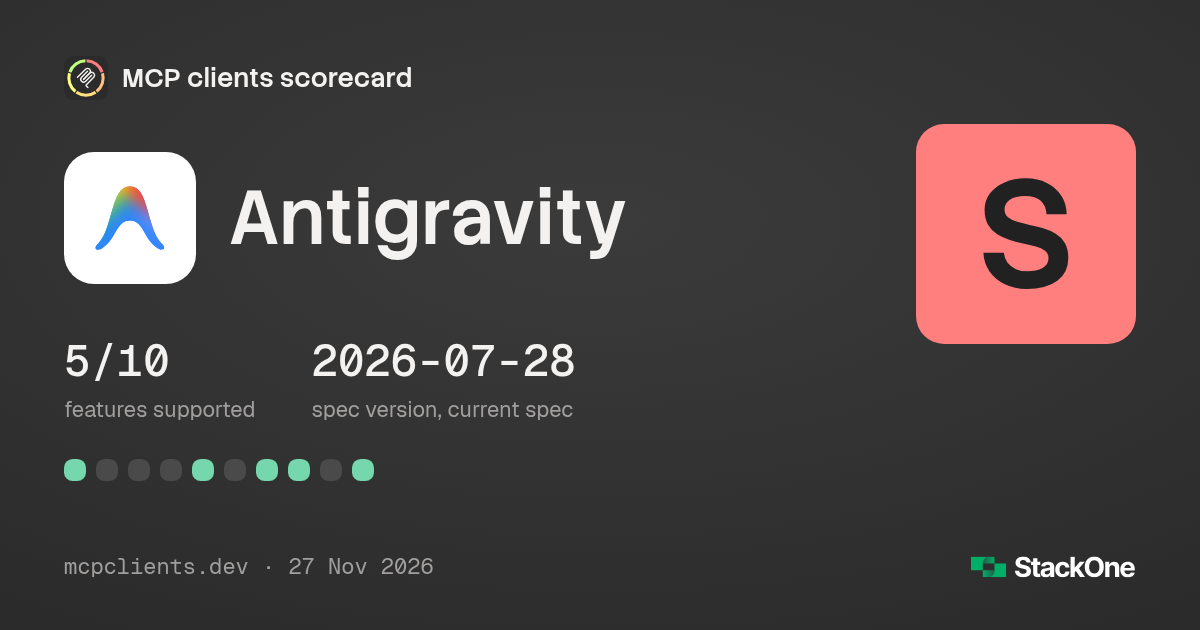
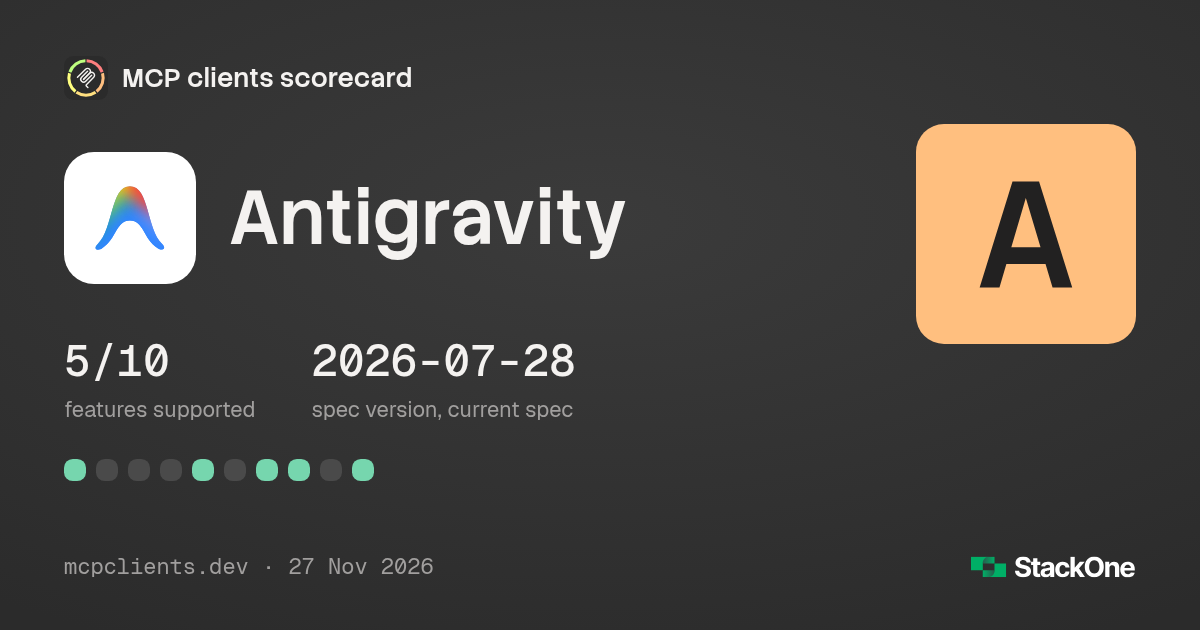
fix(rubric): S tier needs 60% of the feature columns
The S bar was a fixed 5 from when the board had fewer columns. It is now
0.6 of the feature columns (6 of 10), still on the current spec or one
behind. goose, Antigravity and OpenClaw move to A. VS Code's protocol
cell is rechecked at 1.148.0 (still 2025-11-25).

Changed region(s): [[0.74, 0.181, 0.9558, 0.573]]

diff --git a/README.md b/README.md
@@ -13,11 +13,13 @@ Which MCP clients support which parts of the [Model Context Protocol](https://mo
 <!-- changes:start -->
 <!-- Generated by `npm run build` from data/. Do not edit between the markers. -->
 
-The last 30 days to 27 Nov 2026. Clients: 15 · Feature support: 26 · Tier moves: 6 · Spec: 1. Board changes carry the date of the weekly check, shipped features the date of their release note. Feeds: [Atom](https://mcpclients.dev/changelog.xml) · [JSON](https://mcpclients.dev/changelog.json)
+The last 30 days to 27 Nov 2026. Clients: 15 · Feature support: 26 · Tier moves: 8 · Spec: 1. Board changes carry the date of the weekly check, shipped features the date of their release note. Feeds: [Atom](https://mcpclients.dev/changelog.xml) · [JSON](https://mcpclients.dev/changelog.json)
 
 | Date | Kind | Change |
 | --- | --- | --- |
-| 2026-11-27 | Client | [Antigravity](EVIDENCE.md#antigravity) joins the board in S tier |
+| 2026-11-27 | Client | [Antigravity](EVIDENCE.md#antigravity) joins the board in A tier |
+| 2026-11-27 | Tier | [goose](EVIDENCE.md#goose) moves down from S to A tier |
+| 2026-11-27 | Tier | [OpenClaw](EVIDENCE.md#openclaw) moves down from S to A tier |
 | 2026-11-24 | Feature | [Claude app](EVIDENCE.md#claude-app) ships Skills ([source](https://claude.com/resources/articles/skills-over-mcp-tasks-and-more)) |
 | 2026-11-24 | Feature | [Claude app](EVIDENCE.md#claude-app) ships Tasks ([source](https://claude.com/resources/articles/skills-over-mcp-tasks-and-more)) |
 | 2026-11-24 | Feature | [Claude Code](EVIDENCE.md#claude-code) ships Skills in 2.1.332 ([source](https://www.npmjs.com/package/@anthropic-ai/claude-code/v/2.1.332)) |
@@ -25,13 +27,13 @@ The last 30 days to 27 Nov 2026. Clients: 15 · Feature support: 26 · Tier move
 | 2026-11-23 | Client | [Open WebUI](EVIDENCE.md#open-webui) joins the board in B tier |
 | 2026-11-23 | Client | [OpenClaw](EVIDENCE.md#openclaw) joins the board in S tier |
 | 2026-11-23 | Feature | [Gemini CLI](EVIDENCE.md#gemini-cli) rechecked: spec version 2025-06-18 → 2025-11-25 |
-| 2026-11-23 | Feature | [goose](EVIDENCE.md#goose) rechecked: Tool search partly → yes |
-| 2026-11-23 | Tier | [Gemini CLI](EVIDENCE.md#gemini-cli) moves up from D to C tier |
 
-<details><summary>38 more from the last 30 days</summary>
+<details><summary>40 more from the last 30 days</summary>
 
 | Date | Kind | Change |
 | --- | --- | --- |
+| 2026-11-23 | Feature | [goose](EVIDENCE.md#goose) rechecked: Tool search partly → yes |
+| 2026-11-23 | Tier | [Gemini CLI](EVIDENCE.md#gemini-cli) moves up from D to C tier |
 | 2026-11-22 | Client | [Amp](EVIDENCE.md#amp) joins the board in A tier |
 | 2026-11-22 | Client | [Auggie](EVIDENCE.md#auggie) joins the board in C tier |
 | 2026-11-22 | Client | [JetBrains AI Assistant](EVIDENCE.md#jetbrains-ai-assistant) joins the board in C tier |
@@ -168,7 +170,7 @@ As of 27 Nov 2026. Click any cell for its source, or a client name for the full 
 | Tier | Client | Version checked | MCP bugs fixed | Spec version | MCP Apps | Tasks | Events | Skills | CIMD | ID-JAG | Elicitation | Live tool lists | Code mode <sub>harness</sub> | Tool search <sub>harness</sub> |
 | --- | --- | --- | --- | --- | --- | --- | --- | --- | --- | --- | --- | --- | --- | --- |
 | **S** | [Claude Code](EVIDENCE.md#claude-code) [↗](https://claude.com/product/claude-code) | `2.1.332` | [9% of 910](https://github.com/anthropics/claude-code/issues) | [![current spec](assets/icons/spec-current.svg) 2026-07-28](https://code.claude.com/docs/en/changelog) | [![not applicable](assets/icons/na.svg)](https://github.com/anthropics/claude-code/issues/95149) | [![yes](assets/icons/y.svg)](https://code.claude.com/docs/en/mcp) | [![no](assets/icons/n.svg)](https://github.com/anthropics/claude-code/issues/101434) | [![yes](assets/icons/y.svg)](https://github.com/anthropics/claude-code/blob/eb8e6d253d0dbee6e52fb0d5fdcb72c9396fe3e8/CHANGELOG.md#L5) | [![yes](assets/icons/y.svg)](https://code.claude.com/docs/en/mcp) | [![yes](assets/icons/y.svg)](https://blog.modelcontextprotocol.io/posts/enterprise-managed-auth) | [![yes](assets/icons/y.svg)](https://code.claude.com/docs/en/mcp) | [![yes](assets/icons/y.svg)](https://github.com/anthropics/claude-code/blob/80c6959d28c4c30ecd14fc1cdf172f19d9adad81/CHANGELOG.md#L8529) | [![partial](assets/icons/p.svg)](https://code.claude.com/docs/en/code-mode) | [![yes](assets/icons/y.svg) Keyword](https://registry.npmjs.org/@anthropic-ai/claude-code-linux-x64/2.1.325) |
-| **S** | [OpenClaw](EVIDENCE.md#openclaw) [↗](https://openclaw.ai) | `2026.11.7` | [42% of 345](https://github.com/openclaw/openclaw/issues) | [![one version behind](assets/icons/spec-behind.svg) 2025-11-25](https://github.com/openclaw/openclaw/blob/e31bbf056de321127988ec5c1a36ff1b59297de0/src/agents/agent-bundle-mcp-runtime.ts#L357) | [![yes](assets/icons/y.svg)](https://docs.openclaw.ai/cli/mcp/apps) | [![no](assets/icons/n.svg)](https://github.com/openclaw/openclaw/tree/e31bbf056de321127988ec5c1a36ff1b59297de0/src/agents) | [![partial](assets/icons/p.svg)](https://docs.openclaw.ai/automation/mcp-events) | [![no](assets/icons/n.svg)](https://docs.openclaw.ai/cli/mcp) | [![partial](assets/icons/p.svg)](https://github.com/openclaw/openclaw/blob/e31bbf056de321127988ec5c1a36ff1b59297de0/src/agents/mcp-oauth-provider.ts#L167) | [![no](assets/icons/n.svg)](https://github.com/openclaw/openclaw/tree/e31bbf056de321127988ec5c1a36ff1b59297de0/src/agents) | [![partial](assets/icons/p.svg)](https://github.com/openclaw/openclaw/blob/e31bbf056de321127988ec5c1a36ff1b59297de0/src/agents/mcp-metadata.ts#L12) | [![yes](assets/icons/y.svg)](https://github.com/openclaw/openclaw/blob/e31bbf056de321127988ec5c1a36ff1b59297de0/src/agents/agent-bundle-mcp-runtime.ts#L363) | [![partial](assets/icons/p.svg)](https://docs.openclaw.ai/tools/code-mode) | [![yes](assets/icons/y.svg) BM25](https://github.com/openclaw/openclaw/blob/e31bbf056de321127988ec5c1a36ff1b59297de0/src/agents/tool-search-ranking.ts#L371) |
+| **A** | [OpenClaw](EVIDENCE.md#openclaw) [↗](https://openclaw.ai) | `2026.11.7` | [42% of 345](https://github.com/openclaw/openclaw/issues) | [![one version behind](assets/icons/spec-behind.svg) 2025-11-25](https://github.com/openclaw/openclaw/blob/e31bbf056de321127988ec5c1a36ff1b59297de0/src/agents/agent-bundle-mcp-runtime.ts#L357) | [![yes](assets/icons/y.svg)](https://docs.openclaw.ai/cli/mcp/apps) | [![no](assets/icons/n.svg)](https://github.com/openclaw/openclaw/tree/e31bbf056de321127988ec5c1a36ff1b59297de0/src/agents) | [![partial](assets/icons/p.svg)](https://docs.openclaw.ai/automation/mcp-events) | [![no](assets/icons/n.svg)](https://docs.openclaw.ai/cli/mcp) | [![partial](assets/icons/p.svg)](https://github.com/openclaw/openclaw/blob/e31bbf056de321127988ec5c1a36ff1b59297de0/src/agents/mcp-oauth-provider.ts#L167) | [![no](assets/icons/n.svg)](https://github.com/openclaw/openclaw/tree/e31bbf056de321127988ec5c1a36ff1b59297de0/src/agents) | [![partial](assets/icons/p.svg)](https://github.com/openclaw/openclaw/blob/e31bbf056de321127988ec5c1a36ff1b59297de0/src/agents/mcp-metadata.ts#L12) | [![yes](assets/icons/y.svg)](https://github.com/openclaw/openclaw/blob/e31bbf056de321127988ec5c1a36ff1b59297de0/src/agents/agent-bundle-mcp-runtime.ts#L363) | [![partial](assets/icons/p.svg)](https://docs.openclaw.ai/tools/code-mode) | [![yes](assets/icons/y.svg) BM25](https://github.com/openclaw/openclaw/blob/e31bbf056de321127988ec5c1a36ff1b59297de0/src/agents/tool-search-ranking.ts#L371) |
 | **A** | [Copilot CLI](EVIDENCE.md#copilot-cli) [↗](https://github.com/features/copilot) | `1.0.117` | [43% of 157](https://github.com/github/copilot-cli/issues) | [![current spec](assets/icons/spec-current.svg) 2026-07-28](https://github.com/github/copilot-cli/blob/main/changelog.md) | [![not applicable](assets/icons/na.svg)](https://github.com/github/copilot-cli/blob/main/changelog.md) | [![partial](assets/icons/p.svg)](https://github.com/github/copilot-cli/blob/main/changelog.md) | [![no](assets/icons/n.svg)](https://registry.npmjs.org/@github/copilot-linux-x64/1.0.112) | [![no](assets/icons/n.svg)](https://github.com/github/copilot-cli/blob/main/changelog.md) | [![yes](assets/icons/y.svg)](https://github.com/github/copilot-cli/blob/main/changelog.md) | [![no](assets/icons/n.svg)](https://registry.npmjs.org/@github/copilot-linux-x64/1.0.112) | [![yes](assets/icons/y.svg)](https://github.com/github/copilot-cli/blob/main/changelog.md) | [![yes](assets/icons/y.svg)](https://github.com/github/copilot-cli/blob/84ee80ea6490ce02d6000439356a609fcefbb9ae/changelog.md#L454) | [![no](assets/icons/n.svg)](https://github.com/github/copilot-cli/blob/main/changelog.md) | [![yes](assets/icons/y.svg) Hosted](https://registry.npmjs.org/@github/copilot-linux-x64/1.0.112) |
 | **A** | [Amp](EVIDENCE.md#amp) [↗](https://ampcode.com) | `0.0.1795334436-g660843` | no public tracker | [![current spec](assets/icons/spec-current.svg) 2026-07-28 (falls back to 2025-11-25)](https://ampcode.com/docs/customize/mcp) | [![yes](assets/icons/y.svg)](https://ampcode.com/docs/customize/mcp) | [![no](assets/icons/n.svg)](https://ampcode.com/docs/customize/mcp) | [![no](assets/icons/n.svg)](https://ampcode.com/docs/customize/mcp) | [![no](assets/icons/n.svg)](https://ampcode.com/manual) | [![yes](assets/icons/y.svg)](https://ampcode.com/docs/customize/mcp) | [![no](assets/icons/n.svg)](https://ampcode.com/docs/customize/mcp) | [![yes](assets/icons/y.svg)](https://ampcode.com/docs/customize/mcp) | [![no](assets/icons/n.svg)](https://ampcode.com/docs/customize/mcp) | [![partial](assets/icons/p.svg)](https://ampcode.com/docs/customize/mcp) | [![partial](assets/icons/p.svg)](https://ampcode.com/docs/customize/mcp) |
 | **A** | [Hermes Agent](EVIDENCE.md#hermes-agent) [↗](https://hermes-agent.nousresearch.com) | `0.23.3` | [29% of 661](https://github.com/NousResearch/hermes-agent/issues) | [![current spec](assets/icons/spec-current.svg) 2026-07-28 (falls back to 2025-11-25)](https://github.com/NousResearch/hermes-agent/blob/caafe5389ae585ef77387a962aee05b1bcf17029/tools/mcp_tool_transport.py#L229) | [![not applicable](assets/icons/na.svg)](https://github.com/NousResearch/hermes-agent/tree/caafe5389ae585ef77387a962aee05b1bcf17029/tools) | [![no](assets/icons/n.svg)](https://github.com/NousResearch/hermes-agent/tree/caafe5389ae585ef77387a962aee05b1bcf17029/tools) | [![partial](assets/icons/p.svg)](https://github.com/NousResearch/hermes-agent/blob/caafe5389ae585ef77387a962aee05b1bcf17029/website/docs/user-guide/features/mcp.md#L1038) | [![no](assets/icons/n.svg)](https://github.com/NousResearch/hermes-agent/pull/137746) | [![yes](assets/icons/y.svg)](https://github.com/NousResearch/hermes-agent/blob/caafe5389ae585ef77387a962aee05b1bcf17029/website/docs/user-guide/features/mcp.md#L354) | [![no](assets/icons/n.svg)](https://github.com/NousResearch/hermes-agent/tree/caafe5389ae585ef77387a962aee05b1bcf17029/tools) | [![partial](assets/icons/p.svg)](https://github.com/NousResearch/hermes-agent/blob/caafe5389ae585ef77387a962aee05b1bcf17029/website/docs/user-guide/features/mcp.md#L1023) | [![yes](assets/icons/y.svg)](https://github.com/NousResearch/hermes-agent/blob/caafe5389ae585ef77387a962aee05b1bcf17029/tools/mcp_tool_health.py#L109) | [![no](assets/icons/n.svg)](https://github.com/NousResearch/hermes-agent/blob/caafe5389ae585ef77387a962aee05b1bcf17029/website/docs/user-guide/features/code-execution.md#L153) | [![yes](assets/icons/y.svg) BM25 search](https://github.com/NousResearch/hermes-agent/blob/caafe5389ae585ef77387a962aee05b1bcf17029/website/docs/user-guide/features/tool-search.md#L133) |
@@ -187,10 +189,10 @@ As of 27 Nov 2026. Click any cell for its source, or a client name for the full 
 
 | Tier | Client | Version checked | MCP bugs fixed | Spec version | MCP Apps | Tasks | Events | Skills | CIMD | ID-JAG | Elicitation | Live tool lists | Code mode <sub>harness</sub> | Tool search <sub>harness</sub> |
 | --- | --- | --- | --- | --- | --- | --- | --- | --- | --- | --- | --- | --- | --- | --- |
-| **S** | [VS Code](EVIDENCE.md#vs-code) [↗](https://code.visualstudio.com) | `1.147.0` | [46% of 368](https://github.com/microsoft/vscode/issues) | [![one version behind](assets/icons/spec-behind.svg) 2025-11-25](https://github.com/microsoft/vscode/blob/2c33b50b16c472efe58357d1d2a8a5414bc23fbf/src/vs/workbench/contrib/mcp/common/mcpServerRequestHandler.ts#L116) | [![yes](assets/icons/y.svg)](https://github.com/microsoft/vscode/blob/2c33b50b16c472efe58357d1d2a8a5414bc23fbf/src/vs/workbench/contrib/mcp/common/mcpServerRequestHandler.ts#L130) | [![yes](assets/icons/y.svg)](https://github.com/microsoft/vscode/blob/2c33b50b16c472efe58357d1d2a8a5414bc23fbf/src/vs/workbench/contrib/mcp/common/mcpServer.ts#L1404) | [![no](assets/icons/n.svg)](https://github.com/microsoft/vscode/tree/2c33b50b16c472efe58357d1d2a8a5414bc23fbf/src/vs/workbench/contrib/mcp) | [![yes](assets/icons/y.svg)](https://github.com/microsoft/vscode-docs/blob/main/release-notes/v1_147.md) | [![yes](assets/icons/y.svg)](https://github.com/microsoft/vscode/blob/2c33b50b16c472efe58357d1d2a8a5414bc23fbf/src/vs/workbench/api/browser/mainThreadAuthentication.ts#L193) | [![yes](assets/icons/y.svg)](https://github.com/microsoft/vscode/blob/2c33b50b16c472efe58357d1d2a8a5414bc23fbf/src/vs/base/common/oauth.ts#L35) | [![yes](assets/icons/y.svg)](https://github.com/microsoft/vscode/blob/2c33b50b16c472efe58357d1d2a8a5414bc23fbf/src/vs/workbench/contrib/mcp/common/mcpServerRequestHandler.ts#L120) | [![yes](assets/icons/y.svg)](https://github.com/microsoft/vscode/blob/1.144.0/src/vs/workbench/contrib/mcp/common/mcpServer.ts#L1238-L1241) | [![no](assets/icons/n.svg)](https://github.com/microsoft/vscode/tree/2c33b50b16c472efe58357d1d2a8a5414bc23fbf/src/vs/workbench/contrib/mcp) | [![yes](assets/icons/y.svg) Embeddings](https://github.com/microsoft/vscode/blob/2c33b50b16c472efe58357d1d2a8a5414bc23fbf/extensions/copilot/src/extension/tools/node/toolSearchTool.ts) |
-| **S** | [goose](EVIDENCE.md#goose) [↗](https://goose-docs.ai) | `1.60.2` | [54% of 83](https://github.com/aaif-goose/goose/issues) | [![current spec](assets/icons/spec-current.svg) 2026-07-28 (falls back to 2025-11-25)](https://github.com/aaif-goose/goose/blob/30bba95105e59bc3e7df624cf6b4d433690cfe12/crates/goose/src/agents/mcp_client.rs#L549) | [![yes](assets/icons/y.svg)](https://github.com/aaif-goose/goose/blob/30bba95105e59bc3e7df624cf6b4d433690cfe12/crates/goose/src/agents/mcp_client.rs#L47) | [![no](assets/icons/n.svg)](https://github.com/aaif-goose/goose/blob/30bba95105e59bc3e7df624cf6b4d433690cfe12/crates/goose/src/agents/mcp_client.rs#L443) | [![no](assets/icons/n.svg)](https://github.com/aaif-goose/goose/tree/30bba95105e59bc3e7df624cf6b4d433690cfe12/crates) | [![no](assets/icons/n.svg)](https://github.com/aaif-goose/goose/issues/12068) | [![yes](assets/icons/y.svg)](https://github.com/aaif-goose/goose/blob/30bba95105e59bc3e7df624cf6b4d433690cfe12/crates/goose/src/oauth/mod.rs#L25) | [![no](assets/icons/n.svg)](https://github.com/aaif-goose/goose/tree/30bba95105e59bc3e7df624cf6b4d433690cfe12/crates/goose/src/oauth) | [![partial](assets/icons/p.svg)](https://github.com/aaif-goose/goose/blob/30bba95105e59bc3e7df624cf6b4d433690cfe12/documentation/docs/guides/mcp-elicitation.md#L16) | [![yes](assets/icons/y.svg)](https://github.com/aaif-goose/goose/blob/v1.57.0/crates/goose/src/agents/mcp_client.rs#L358) | [![yes](assets/icons/y.svg)](https://github.com/aaif-goose/goose/blob/30bba95105e59bc3e7df624cf6b4d433690cfe12/documentation/docs/guides/managing-tools/code-mode.md#L25) | [![yes](assets/icons/y.svg) LLM picks](https://github.com/aaif-goose/goose/blob/fb55b5a6d7f5b5df96c8f817f1cde6a81880d9f1/documentation/docs/guides/config-files.md#L54) |
-| **S** | [Antigravity](EVIDENCE.md#antigravity) [↗](https://antigravity.google) | `2.35.2` | no public tracker | [![current spec](assets/icons/spec-current.svg) 2026-07-28 (falls back to 2025-11-25)](https://storage.googleapis.com/antigravity-public/antigravity-hub/2.35.2-4585983447007232/linux-x64/Antigravity.tar.gz) | [![yes](assets/icons/y.svg)](https://antigravity.google/docs/mcp-apps) | [![no](assets/icons/n.svg)](https://storage.googleapis.com/antigravity-public/antigravity-hub/2.35.2-4585983447007232/linux-x64/Antigravity.tar.gz) | [![no](assets/icons/n.svg)](https://storage.googleapis.com/antigravity-public/antigravity-hub/2.35.2-4585983447007232/linux-x64/Antigravity.tar.gz) | [![no](assets/icons/n.svg)](https://antigravity.google/docs/skills) | [![yes](assets/icons/y.svg)](https://antigravity.google/docs/mcp) | [![no](assets/icons/n.svg)](https://storage.googleapis.com/antigravity-public/antigravity-hub/2.35.2-4585983447007232/linux-x64/Antigravity.tar.gz) | [![yes](assets/icons/y.svg)](https://storage.googleapis.com/antigravity-public/antigravity-hub/2.35.2-4585983447007232/linux-x64/Antigravity.tar.gz) | [![yes](assets/icons/y.svg)](https://storage.googleapis.com/antigravity-public/antigravity-hub/2.35.2-4585983447007232/linux-x64/Antigravity.tar.gz) | [![no](assets/icons/n.svg)](https://antigravity.google/docs/dynamic-workflows) | [![yes](assets/icons/y.svg) Files](https://antigravity.google/docs/mcp) |
+| **S** | [VS Code](EVIDENCE.md#vs-code) [↗](https://code.visualstudio.com) | `1.147.0` | [46% of 368](https://github.com/microsoft/vscode/issues) | [![one version behind](assets/icons/spec-behind.svg) 2025-11-25](https://github.com/microsoft/vscode/blob/661626d0e72f97806550790a98fb87116c9db825/src/vs/workbench/contrib/mcp/common/mcpServerRequestHandler.ts#L116) | [![yes](assets/icons/y.svg)](https://github.com/microsoft/vscode/blob/2c33b50b16c472efe58357d1d2a8a5414bc23fbf/src/vs/workbench/contrib/mcp/common/mcpServerRequestHandler.ts#L130) | [![yes](assets/icons/y.svg)](https://github.com/microsoft/vscode/blob/2c33b50b16c472efe58357d1d2a8a5414bc23fbf/src/vs/workbench/contrib/mcp/common/mcpServer.ts#L1404) | [![no](assets/icons/n.svg)](https://github.com/microsoft/vscode/tree/2c33b50b16c472efe58357d1d2a8a5414bc23fbf/src/vs/workbench/contrib/mcp) | [![yes](assets/icons/y.svg)](https://github.com/microsoft/vscode-docs/blob/main/release-notes/v1_147.md) | [![yes](assets/icons/y.svg)](https://github.com/microsoft/vscode/blob/2c33b50b16c472efe58357d1d2a8a5414bc23fbf/src/vs/workbench/api/browser/mainThreadAuthentication.ts#L193) | [![yes](assets/icons/y.svg)](https://github.com/microsoft/vscode/blob/2c33b50b16c472efe58357d1d2a8a5414bc23fbf/src/vs/base/common/oauth.ts#L35) | [![yes](assets/icons/y.svg)](https://github.com/microsoft/vscode/blob/2c33b50b16c472efe58357d1d2a8a5414bc23fbf/src/vs/workbench/contrib/mcp/common/mcpServerRequestHandler.ts#L120) | [![yes](assets/icons/y.svg)](https://github.com/microsoft/vscode/blob/1.144.0/src/vs/workbench/contrib/mcp/common/mcpServer.ts#L1238-L1241) | [![no](assets/icons/n.svg)](https://github.com/microsoft/vscode/tree/2c33b50b16c472efe58357d1d2a8a5414bc23fbf/src/vs/workbench/contrib/mcp) | [![yes](assets/icons/y.svg) Embeddings](https://github.com/microsoft/vscode/blob/2c33b50b16c472efe58357d1d2a8a5414bc23fbf/extensions/copilot/src/extension/tools/node/toolSearchTool.ts) |
 | **A** | [Claude app](EVIDENCE.md#claude-app) [↗](https://claude.com/product/overview) | hosted | [13% of 596](https://github.com/anthropics/claude-ai-mcp/issues) | [![not published](assets/icons/spec-unknown.svg) not published](https://claude.com/docs/connectors/building) | [![yes](assets/icons/y.svg)](https://claude.com/docs/connectors/building/mcp-apps/getting-started) | [![yes](assets/icons/y.svg)](https://code.claude.com/docs/en/mcp) | [![no](assets/icons/n.svg)](https://claude.com/docs/connectors/building) | [![yes](assets/icons/y.svg)](https://claude.com/resources/articles/skills-over-mcp-tasks-and-more) | [![yes](assets/icons/y.svg)](https://claude.com/docs/connectors/building/authentication) | [![yes](assets/icons/y.svg)](https://claude.com/docs/connectors/building/enterprise-managed-auth) | [![no](assets/icons/n.svg)](https://github.com/anthropics/claude-ai-mcp/issues/1085) | [![no](assets/icons/n.svg)](https://github.com/anthropics/claude-ai-mcp/issues/45) | [![no](assets/icons/n.svg)](https://claude.com/docs/cowork/changelog) | [![yes](assets/icons/y.svg) Deferred](https://support.claude.com/en/articles/13730515-manage-claude-s-tool-access) |
+| **A** | [goose](EVIDENCE.md#goose) [↗](https://goose-docs.ai) | `1.60.2` | [54% of 83](https://github.com/aaif-goose/goose/issues) | [![current spec](assets/icons/spec-current.svg) 2026-07-28 (falls back to 2025-11-25)](https://github.com/aaif-goose/goose/blob/30bba95105e59bc3e7df624cf6b4d433690cfe12/crates/goose/src/agents/mcp_client.rs#L549) | [![yes](assets/icons/y.svg)](https://github.com/aaif-goose/goose/blob/30bba95105e59bc3e7df624cf6b4d433690cfe12/crates/goose/src/agents/mcp_client.rs#L47) | [![no](assets/icons/n.svg)](https://github.com/aaif-goose/goose/blob/30bba95105e59bc3e7df624cf6b4d433690cfe12/crates/goose/src/agents/mcp_client.rs#L443) | [![no](assets/icons/n.svg)](https://github.com/aaif-goose/goose/tree/30bba95105e59bc3e7df624cf6b4d433690cfe12/crates) | [![no](assets/icons/n.svg)](https://github.com/aaif-goose/goose/issues/12068) | [![yes](assets/icons/y.svg)](https://github.com/aaif-goose/goose/blob/30bba95105e59bc3e7df624cf6b4d433690cfe12/crates/goose/src/oauth/mod.rs#L25) | [![no](assets/icons/n.svg)](https://github.com/aaif-goose/goose/tree/30bba95105e59bc3e7df624cf6b4d433690cfe12/crates/goose/src/oauth) | [![partial](assets/icons/p.svg)](https://github.com/aaif-goose/goose/blob/30bba95105e59bc3e7df624cf6b4d433690cfe12/documentation/docs/guides/mcp-elicitation.md#L16) | [![yes](assets/icons/y.svg)](https://github.com/aaif-goose/goose/blob/v1.57.0/crates/goose/src/agents/mcp_client.rs#L358) | [![yes](assets/icons/y.svg)](https://github.com/aaif-goose/goose/blob/30bba95105e59bc3e7df624cf6b4d433690cfe12/documentation/docs/guides/managing-tools/code-mode.md#L25) | [![yes](assets/icons/y.svg) LLM picks](https://github.com/aaif-goose/goose/blob/fb55b5a6d7f5b5df96c8f817f1cde6a81880d9f1/documentation/docs/guides/config-files.md#L54) |
+| **A** | [Antigravity](EVIDENCE.md#antigravity) [↗](https://antigravity.google) | `2.35.2` | no public tracker | [![current spec](assets/icons/spec-current.svg) 2026-07-28 (falls back to 2025-11-25)](https://storage.googleapis.com/antigravity-public/antigravity-hub/2.35.2-4585983447007232/linux-x64/Antigravity.tar.gz) | [![yes](assets/icons/y.svg)](https://antigravity.google/docs/mcp-apps) | [![no](assets/icons/n.svg)](https://storage.googleapis.com/antigravity-public/antigravity-hub/2.35.2-4585983447007232/linux-x64/Antigravity.tar.gz) | [![no](assets/icons/n.svg)](https://storage.googleapis.com/antigravity-public/antigravity-hub/2.35.2-4585983447007232/linux-x64/Antigravity.tar.gz) | [![no](assets/icons/n.svg)](https://antigravity.google/docs/skills) | [![yes](assets/icons/y.svg)](https://antigravity.google/docs/mcp) | [![no](assets/icons/n.svg)](https://storage.googleapis.com/antigravity-public/antigravity-hub/2.35.2-4585983447007232/linux-x64/Antigravity.tar.gz) | [![yes](assets/icons/y.svg)](https://storage.googleapis.com/antigravity-public/antigravity-hub/2.35.2-4585983447007232/linux-x64/Antigravity.tar.gz) | [![yes](assets/icons/y.svg)](https://storage.googleapis.com/antigravity-public/antigravity-hub/2.35.2-4585983447007232/linux-x64/Antigravity.tar.gz) | [![no](assets/icons/n.svg)](https://antigravity.google/docs/dynamic-workflows) | [![yes](assets/icons/y.svg) Files](https://antigravity.google/docs/mcp) |
 | **A** | [Kiro](EVIDENCE.md#kiro) [↗](https://kiro.dev) | `3.5.0` | [30% of 108](https://github.com/kirodotdev/Kiro/issues) | [![current spec](assets/icons/spec-current.svg) 2026-07-28](https://desktop-release.q.us-east-1.amazonaws.com/3.5.0/kirocli-x86_64-linux.zip) | [![no](assets/icons/n.svg)](https://github.com/kirodotdev/Kiro/issues/11048) | [![no](assets/icons/n.svg)](https://kiro.dev/docs/mcp/) | [![no](assets/icons/n.svg)](https://kiro.dev/docs/mcp/) | [![no](assets/icons/n.svg)](https://kiro.dev/docs/mcp/) | [![yes](assets/icons/y.svg)](https://kiro.dev/docs/mcp/configuration/) | [![yes](assets/icons/y.svg)](https://kiro.dev/docs/mcp/configuration/) | [![yes](assets/icons/y.svg)](https://kiro.dev/docs/mcp/usage/) | [![partial](assets/icons/p.svg)](https://github.com/kirodotdev/Kiro/issues/6553) | [![no](assets/icons/n.svg)](https://kiro.dev/docs/mcp/) | [![yes](assets/icons/y.svg) Catalog](https://kiro.dev/docs/mcp/tool-search/) |
 | **A** | [Cursor](EVIDENCE.md#cursor) [↗](https://cursor.com) | `3.27.22` | no public tracker | [![one version behind](assets/icons/spec-behind.svg) 2025-11-25](https://downloads.cursor.com/production/b1aa50cb6db84fd3e8c808259cb172ea73425c1f/linux/x64/Cursor-3.27.22-x86_64.AppImage) | [![yes](assets/icons/y.svg)](https://downloads.cursor.com/production/b1aa50cb6db84fd3e8c808259cb172ea73425c1f/linux/x64/Cursor-3.27.22-x86_64.AppImage) | [![no](assets/icons/n.svg)](https://downloads.cursor.com/production/b1aa50cb6db84fd3e8c808259cb172ea73425c1f/linux/x64/Cursor-3.27.22-x86_64.AppImage) | [![no](assets/icons/n.svg)](https://downloads.cursor.com/production/b1aa50cb6db84fd3e8c808259cb172ea73425c1f/linux/x64/Cursor-3.27.22-x86_64.AppImage) | [![no](assets/icons/n.svg)](https://cursor.com/docs/mcp) | [![no](assets/icons/n.svg)](https://downloads.cursor.com/production/b1aa50cb6db84fd3e8c808259cb172ea73425c1f/linux/x64/Cursor-3.27.22-x86_64.AppImage) | [![no](assets/icons/n.svg)](https://downloads.cursor.com/production/b1aa50cb6db84fd3e8c808259cb172ea73425c1f/linux/x64/Cursor-3.27.22-x86_64.AppImage) | [![partial](assets/icons/p.svg)](https://downloads.cursor.com/production/b1aa50cb6db84fd3e8c808259cb172ea73425c1f/linux/x64/Cursor-3.27.22-x86_64.AppImage) | [![yes](assets/icons/y.svg)](https://downloads.cursor.com/production/b1aa50cb6db84fd3e8c808259cb172ea73425c1f/linux/x64/Cursor-3.27.22-x86_64.AppImage) | [![no](assets/icons/n.svg)](https://downloads.cursor.com/production/b1aa50cb6db84fd3e8c808259cb172ea73425c1f/linux/x64/Cursor-3.27.22-x86_64.AppImage) | [![yes](assets/icons/y.svg) Files](https://cursor.com/blog/dynamic-context-discovery) |
 | **A** | [ChatGPT](EVIDENCE.md#chatgpt) [↗](https://chatgpt.com) | hosted | no public tracker | [![current spec](assets/icons/spec-current.svg) 2026-07-28](https://developers.openai.com/plugins/build/mcp-events) | [![yes](assets/icons/y.svg)](https://developers.openai.com/apps-sdk/mcp-apps-in-chatgpt.md) | [![no](assets/icons/n.svg)](https://developers.openai.com/plugins/build/mcp-server) | [![partial](assets/icons/p.svg)](https://developers.openai.com/plugins/build/mcp-events) | [![no](assets/icons/n.svg)](https://developers.openai.com/plugins/build/skills.md) | [![yes](assets/icons/y.svg)](https://developers.openai.com/plugins/build/auth) | [![no](assets/icons/n.svg)](https://developers.openai.com/plugins/build/auth) | [![partial](assets/icons/p.svg)](https://developers.openai.com/plugins/build/mcp-server) | [![no](assets/icons/n.svg)](https://help.openai.com/en/articles/12584461-developer-mode-and-mcp-apps-in-chatgpt) | [![no](assets/icons/n.svg)](https://developers.openai.com/api/docs/guides/tools) | [![no](assets/icons/n.svg)](https://developers.openai.com/api/docs/guides/tools-connectors-mcp) |

diff --git a/EVIDENCE.md b/EVIDENCE.md
@@ -28,7 +28,7 @@ Tier **S** · CLI · version checked `2.1.332` · tracker [anthropics/claude-cod
 
 ## OpenClaw
 
-Tier **S** · CLI · version checked `2026.11.7` · tracker [openclaw/openclaw](https://github.com/openclaw/openclaw/issues) · MCP bugs fixed: 42% of 345
+Tier **A** · CLI · version checked `2026.11.7` · tracker [openclaw/openclaw](https://github.com/openclaw/openclaw/issues) · MCP bugs fixed: 42% of 345
 
 [website](https://openclaw.ai) · [docs](https://docs.openclaw.ai/cli/mcp) · [repo](https://github.com/openclaw/openclaw) · [data file](data/clients/openclaw.yaml)
 
@@ -320,7 +320,7 @@ Tier **S** · App or IDE · version checked `1.147.0` · tracker [microsoft/vsco
 
 | Feature | Value | Evidence | Method | Checked | Shipped |
 | --- | --- | --- | --- | --- | --- |
-| Spec version | [![one version behind](assets/icons/spec-behind.svg) 2025-11-25](https://github.com/microsoft/vscode/blob/2c33b50b16c472efe58357d1d2a8a5414bc23fbf/src/vs/workbench/contrib/mcp/common/mcpServerRequestHandler.ts#L116) | Source: at tag 1.144.0 the client sends `MCP.LATEST_PROTOCOL_VERSION`, which is **2025-11-25**.<br>• `mcpServerRequestHandler.ts:116` sends `protocolVersion: MCP.LATEST_PROTOCOL_VERSION`.<br>• `platform/mcp/common/modelContextProtocol.ts:43` sets it to "2025-11-25".<br>• No 2026-07-28 in `src/vs`, and the 1.144 release notes name no protocol change. | source | 2026-10-30 |  |
+| Spec version | [![one version behind](assets/icons/spec-behind.svg) 2025-11-25](https://github.com/microsoft/vscode/blob/661626d0e72f97806550790a98fb87116c9db825/src/vs/workbench/contrib/mcp/common/mcpServerRequestHandler.ts#L116) | Source: at tag 1.148.0 the client sends `MCP.LATEST_PROTOCOL_VERSION`, which is **2025-11-25**.<br>• `mcpServerRequestHandler.ts:116` sends `protocolVersion: MCP.LATEST_PROTOCOL_VERSION`.<br>• `platform/mcp/common/modelContextProtocol.ts:43` sets it to "2025-11-25", unchanged on `main` on 2026-11-27.<br>• No 2026-07-28 in the repo, in code or pull requests. | source | 2026-11-27 |  |
 | MCP Apps | [![yes](assets/icons/y.svg)](https://github.com/microsoft/vscode/blob/2c33b50b16c472efe58357d1d2a8a5414bc23fbf/src/vs/workbench/contrib/mcp/common/mcpServerRequestHandler.ts#L130) | Source: at tag 1.144.0 the client **declares the MCP Apps UI extension** in `initialize`.<br>• `mcpServerRequestHandler.ts:130` declares `'io.modelcontextprotocol/ui': {mimeTypes:['text/html;profile=mcp-app']}`.<br>• `modelContextProtocolApps.ts:86` LATEST "2026-01-26". | source | 2026-10-30 | [2026-02-04 (1.109)](https://code.visualstudio.com/updates/v1_109#_support-for-mcp-apps) |
 | Tasks | [![yes](assets/icons/y.svg)](https://github.com/microsoft/vscode/blob/2c33b50b16c472efe58357d1d2a8a5414bc23fbf/src/vs/workbench/contrib/mcp/common/mcpServer.ts#L1404) | Source: at tag 1.144.0 the client declares `tasks:{list,cancel,requests}` in the **2025-11-25 experimental shape**.<br>• `mcpServerRequestHandler.ts:121` declares it, and handles `tasks/get`, `result`, `cancel`, `list` (331-337).<br>• `mcpServer.ts:1403-1411` sends `task: {}` on `tools/call` when the server advertises `tasks.requests.tools.call`.<br>• No "io.modelcontextprotocol/tasks" extension key. | source | 2026-10-30 | [2025-12-10 (1.107)](https://code.visualstudio.com/updates/v1_107#_support-for-the-latest-mcp-specification) |
 | Events | [![no](assets/icons/n.svg)](https://github.com/microsoft/vscode/tree/2c33b50b16c472efe58357d1d2a8a5414bc23fbf/src/vs/workbench/contrib/mcp) | At tag 1.144.0, a grep of `src` and `extensions` for "events/subscribe", "notifications/events" and "io.modelcontextprotocol/events" gives **no hits**. | source | 2026-10-30 |  |
@@ -332,9 +332,29 @@ Tier **S** · App or IDE · version checked `1.147.0` · tracker [microsoft/vsco
 | Code mode | [![no](assets/icons/n.svg)](https://github.com/microsoft/vscode/tree/2c33b50b16c472efe58357d1d2a8a5414bc23fbf/src/vs/workbench/contrib/mcp) | Source: at tag 1.144.0, **no** "execute_javascript" or code mode in `contrib/mcp` or `extensions/copilot`.<br>• The only "code_mode" hit is a generated type for the separate Codex agent host (`agentHost/node/codex/protocol/generated/ToolExposureSurface.ts`).<br>• Unchanged at 1.145.1. | source | 2026-11-06 |  |
 | Tool search | [![yes](assets/icons/y.svg) Embeddings](https://github.com/microsoft/vscode/blob/2c33b50b16c472efe58357d1d2a8a5414bc23fbf/extensions/copilot/src/extension/tools/node/toolSearchTool.ts) | Source: deferred tools are found with a `tool_search` tool that ranks them by **embeddings** from a remote service.<br>• On for models with `supportsToolSearch` (`agentIntent.ts:277`).<br>• `toolSearchTool.ts` calls `searchToolsByQuery`, which embeds the query and each tool's name plus description.<br>• Embeddings come from the remote GitHub embeddings service (`metis-1024-I16-Binary` by default), ranked by dot product, top 5 by default (`toolEmbeddingsComputer.ts:136-202`). | source | 2026-10-30 | [2026-02-04 (1.109)](https://code.visualstudio.com/updates/v1_109#_anthropic-models) |
 
+## Claude app
+
+Tier **A** · App or IDE · tracker [anthropics/claude-ai-mcp](https://github.com/anthropics/claude-ai-mcp/issues) · MCP bugs fixed: 13% of 596
+
+[website](https://claude.com/product/overview) · [docs](https://claude.com/docs/connectors/building) · [repo](https://github.com/anthropics/claude-ai-mcp) · [data file](data/clients/claude-app.yaml)
+
+| Feature | Value | Evidence | Method | Checked | Shipped |
+| --- | --- | --- | --- | --- | --- |
+| Spec version | [![not published](assets/icons/spec-unknown.svg) not published](https://claude.com/docs/connectors/building) | The connector build page names only the 2025-03-26, 2025-06-18 and 2025-11-25 authorization specs and **publishes no protocol version** for the client. | docs | 2026-10-30 |  |
+| MCP Apps | [![yes](assets/icons/y.svg)](https://claude.com/docs/connectors/building/mcp-apps/getting-started) | The MCP Apps getting-started page describes an MCP App as interactive UI "that your MCP server renders inside a Claude conversation", built with the MCP Apps SDK. | docs | 2026-10-30 | [2026-01-26](https://claude.com/resources/articles/interactive-tools-in-claude) |
+| Tasks | [![yes](assets/icons/y.svg)](https://code.claude.com/docs/en/mcp) | Docs: MCP tasks **work in claude.ai chats** with connectors that support them on protocol revision 2026-07-28.<br>• The page lists "New chats in the unified Claude experience on Pro, Max, Ultra, and Team plans", and adds that not every existing chat has tasks.<br>• [Anthropic's 2026-11-24 announcement](https://claude.com/resources/articles/skills-over-mcp-tasks-and-more) calls Tasks *generally available*, rolling out to Enterprise. | docs | 2026-11-27 | [2026-11-24](https://claude.com/resources/articles/skills-over-mcp-tasks-and-more) |
+| Events | [![no](assets/icons/n.svg)](https://claude.com/docs/connectors/building) | The connector build page says Claude **"doesn't yet support"** resource subscriptions, sampling, or advanced or draft capabilities. Nothing documents MCP Events. | docs | 2026-10-30 |  |
+| Skills | [![yes](assets/icons/y.svg)](https://claude.com/resources/articles/skills-over-mcp-tasks-and-more) | Announcement: skills over MCP are in **public beta in Claude, on by default for Pro, Max and Ultra**.<br>• Team plans get it on request; Enterprise is listed as coming.<br>• Open issue [claude-ai-mcp#1160](https://github.com/anthropics/claude-ai-mcp/issues/1160) reports that *Cowork* does not run served skills yet. | docs | 2026-11-26 | [2026-11-24](https://claude.com/resources/articles/skills-over-mcp-tasks-and-more) |
+| CIMD | [![yes](assets/icons/y.svg)](https://claude.com/docs/connectors/building/authentication) | The authentication page lists `oauth_cimd` as **"Supported by default"**.<br>• It is used when the authorization server advertises `client_id_metadata_document_supported` and `none` auth.<br>• Otherwise Claude falls back to DCR. | docs | 2026-10-30 |  |
+| ID-JAG | [![yes](assets/icons/y.svg)](https://claude.com/docs/connectors/building/enterprise-managed-auth) | The Enterprise Managed Auth page documents the flow, and the announcement says it became **generally available on 2026-08-24**.<br>• Claude exchanges a signed identity assertion from the IdP at the server's token endpoint with the JWT bearer grant.<br>• This follows the MCP enterprise managed authorization extension. | docs | 2026-10-30 | [2026-06-18](https://claude.com/resources/articles/enterprise-managed-auth) |
+| Elicitation | [![no](assets/icons/n.svg)](https://github.com/anthropics/claude-ai-mcp/issues/1085) | Cowork declares `elicitation` with `form` and `url` but **never renders the request**.<br>• Still reproducing on 2.1.310 on 2026-10-25.<br>• The claude.ai request for elicitation (issue 153) is still open.<br>• The connector docs list no elicitation support. | issue | 2026-10-30 |  |
+| Live tool lists | [![no](assets/icons/n.svg)](https://github.com/anthropics/claude-ai-mcp/issues/45) | Open, labelled bug, known-issue and backlog: the app **keeps a stale cached list** after `notifications/tools/list_changed`. The app requests `tools/list`, but the new tool cannot be called. | issue | 2026-11-02 |  |
+| Code mode | [![no](assets/icons/n.svg)](https://claude.com/docs/cowork/changelog) | Neither the connector docs nor the Claude Desktop and Cowork changelog mention a **code mode** for MCP tools.<br>• The changelog check runs through v4.23118.0 (2026-11-05).<br>• The Claude Code 2.1.318 experiment is *not* exposed in the app. | changelog | 2026-11-06 |  |
+| Tool search | [![yes](assets/icons/y.svg) Deferred](https://support.claude.com/en/articles/13730515-manage-claude-s-tool-access) | The default Auto mode lets Claude decide "dynamically which connectors to load", and **ranking is not documented**. On demand mode loads no connector "until Claude searches for the right one based on your request". | docs | 2026-10-30 |  |
+
 ## goose
 
-Tier **S** · App or IDE · version checked `1.60.2` · tracker [aaif-goose/goose](https://github.com/aaif-goose/goose/issues) · MCP bugs fixed: 54% of 83
+Tier **A** · App or IDE · version checked `1.60.2` · tracker [aaif-goose/goose](https://github.com/aaif-goose/goose/issues) · MCP bugs fixed: 54% of 83
 
 [website](https://goose-docs.ai) · [docs](https://goose-docs.ai/docs) · [repo](https://github.com/aaif-goose/goose) · [data file](data/clients/goose.yaml)
 
@@ -356,7 +376,7 @@ Tier **S** · App or IDE · version checked `1.60.2` · tracker [aaif-goose/goos
 
 ## Antigravity
 
-Tier **S** · App or IDE · version checked `2.35.2` · MCP bugs fixed: no public tracker
+Tier **A** · App or IDE · version checked `2.35.2` · MCP bugs fixed: no public tracker
 
 [website](https://antigravity.google) · [docs](https://antigravity.google/docs/mcp) · [data file](data/clients/antigravity.yaml)
 
@@ -373,26 +393,6 @@ Tier **S** · App or IDE · version checked `2.35.2` · MCP bugs fixed: no publi
 | Live tool lists | [![yes](assets/icons/y.svg)](https://storage.googleapis.com/antigravity-public/antigravity-hub/2.35.2-4585983447007232/linux-x64/Antigravity.tar.gz) | Own probe of 2.35.2: after `notifications/tools/list_changed` the engine **called `tools/list` again** and picked up the new tool.<br>• On 2025-11-25 it re-listed on the plain notice.<br>• On 2026-07-28 it opened `subscriptions/listen` with `toolsListChanged: true` and re-listed when the notice arrived on that stream.<br>• Both runs wrote the new tool's schema file next to the old one. | probe | 2026-11-27 |  |
 | Code mode | [![no](assets/icons/n.svg)](https://antigravity.google/docs/dynamic-workflows) | Docs: the only scripting feature, Dynamic Workflows, runs Python that **starts agents, not MCP tool calls**.<br>• The script API is `phase`, `log`, `agent`, `parallel`, `pipeline` and `trajectory`; each agent then makes its own tool calls.<br>• No `execute_code` or script runner over MCP tools in the 2.35.2 `language_server` strings. | docs | 2026-11-27 |  |
 | Tool search | [![yes](assets/icons/y.svg) Files](https://antigravity.google/docs/mcp) | Docs: MCP tools are **lazy-loaded by default**; the agent sees tool names and reads each schema from a file, with no search query.<br>• Each tool's schema is written to `<app-data-dir>/mcp/<serverName>/<toolName>.json`.<br>• The system prompt lists tool names per server under Eager and Lazy.<br>• The agent reads the file, then calls the tool through the built-in `call_mcp_tool`.<br>• `"eager": true` in `mcp_config.json` registers a tool up front; the probe of 2.35.2 wrote `~/.gemini/antigravity/mcp/probe/ping.json`. | docs | 2026-11-27 |  |
-
-## Claude app
-
-Tier **A** · App or IDE · tracker [anthropics/claude-ai-mcp](https://github.com/anthropics/claude-ai-mcp/issues) · MCP bugs fixed: 13% of 596
-
-[website](https://claude.com/product/overview) · [docs](https://claude.com/docs/connectors/building) · [repo](https://github.com/anthropics/claude-ai-mcp) · [data file](data/clients/claude-app.yaml)
-
-| Feature | Value | Evidence | Method | Checked | Shipped |
-| --- | --- | --- | --- | --- | --- |
-| Spec version | [![not published](assets/icons/spec-unknown.svg) not published](https://claude.com/docs/connectors/building) | The connector build page names only the 2025-03-26, 2025-06-18 and 2025-11-25 authorization specs and **publishes no protocol version** for the client. | docs | 2026-10-30 |  |
-| MCP Apps | [![yes](assets/icons/y.svg)](https://claude.com/docs/connectors/building/mcp-apps/getting-started) | The MCP Apps getting-started page describes an MCP App as interactive UI "that your MCP server renders inside a Claude conversation", built with the MCP Apps SDK. | docs | 2026-10-30 | [2026-01-26](https://claude.com/resources/articles/interactive-tools-in-claude) |
-| Tasks | [![yes](assets/icons/y.svg)](https://code.claude.com/docs/en/mcp) | Docs: MCP tasks **work in claude.ai chats** with connectors that support them on protocol revision 2026-07-28.<br>• The page lists "New chats in the unified Claude experience on Pro, Max, Ultra, and Team plans", and adds that not every existing chat has tasks.<br>• [Anthropic's 2026-11-24 announcement](https://claude.com/resources/articles/skills-over-mcp-tasks-and-more) calls Tasks *generally available*, rolling out to Enterprise. | docs | 2026-11-27 | [2026-11-24](https://claude.com/resources/articles/skills-over-mcp-tasks-and-more) |
-| Events | [![no](assets/icons/n.svg)](https://claude.com/docs/connectors/building) | The connector build page says Claude **"doesn't yet support"** resource subscriptions, sampling, or advanced or draft capabilities. Nothing documents MCP Events. | docs | 2026-10-30 |  |
-| Skills | [![yes](assets/icons/y.svg)](https://claude.com/resources/articles/skills-over-mcp-tasks-and-more) | Announcement: skills over MCP are in **public beta in Claude, on by default for Pro, Max and Ultra**.<br>• Team plans get it on request; Enterprise is listed as coming.<br>• Open issue [claude-ai-mcp#1160](https://github.com/anthropics/claude-ai-mcp/issues/1160) reports that *Cowork* does not run served skills yet. | docs | 2026-11-26 | [2026-11-24](https://claude.com/resources/articles/skills-over-mcp-tasks-and-more) |
-| CIMD | [![yes](assets/icons/y.svg)](https://claude.com/docs/connectors/building/authentication) | The authentication page lists `oauth_cimd` as **"Supported by default"**.<br>• It is used when the authorization server advertises `client_id_metadata_document_supported` and `none` auth.<br>• Otherwise Claude falls back to DCR. | docs | 2026-10-30 |  |
-| ID-JAG | [![yes](assets/icons/y.svg)](https://claude.com/docs/connectors/building/enterprise-managed-auth) | The Enterprise Managed Auth page documents the flow, and the announcement says it became **generally available on 2026-08-24**.<br>• Claude exchanges a signed identity assertion from the IdP at the server's token endpoint with the JWT bearer grant.<br>• This follows the MCP enterprise managed authorization extension. | docs | 2026-10-30 | [2026-06-18](https://claude.com/resources/articles/enterprise-managed-auth) |
-| Elicitation | [![no](assets/icons/n.svg)](https://github.com/anthropics/claude-ai-mcp/issues/1085) | Cowork declares `elicitation` with `form` and `url` but **never renders the request**.<br>• Still reproducing on 2.1.310 on 2026-10-25.<br>• The claude.ai request for elicitation (issue 153) is still open.<br>• The connector docs list no elicitation support. | issue | 2026-10-30 |  |
-| Live tool lists | [![no](assets/icons/n.svg)](https://github.com/anthropics/claude-ai-mcp/issues/45) | Open, labelled bug, known-issue and backlog: the app **keeps a stale cached list** after `notifications/tools/list_changed`. The app requests `tools/list`, but the new tool cannot be called. | issue | 2026-11-02 |  |
-| Code mode | [![no](assets/icons/n.svg)](https://claude.com/docs/cowork/changelog) | Neither the connector docs nor the Claude Desktop and Cowork changelog mention a **code mode** for MCP tools.<br>• The changelog check runs through v4.23118.0 (2026-11-05).<br>• The Claude Code 2.1.318 experiment is *not* exposed in the app. | changelog | 2026-11-06 |  |
-| Tool search | [![yes](assets/icons/y.svg) Deferred](https://support.claude.com/en/articles/13730515-manage-claude-s-tool-access) | The default Auto mode lets Claude decide "dynamically which connectors to load", and **ranking is not documented**. On demand mode loads no connector "until Claude searches for the right one based on your request". | docs | 2026-10-30 |  |
 
 ## Kiro
 

diff --git a/methodology/RUBRIC.md b/methodology/RUBRIC.md
@@ -30,7 +30,7 @@ The rate is coloured green at 40% or more, amber from 15%, and red below 15%. It
 Applied in order. The first rule that matches sets the tier.
 
 1. **D** if the client is no longer maintained, or scores 1 or less on an older spec.
-2. **S** if it scores 5 or more on the current spec or one behind.
+2. **S** if it scores 6 or more on the current spec or one behind. The bar is 60% of the feature columns, so it rises when a column is added.
 3. **C** if it scores 3 or more on an older spec and fixes under 15% of its MCP issues.
 4. **B** if it scores 3 or more but publishes neither a spec version nor a tracker.
 5. **A** if it scores 3 or more.
